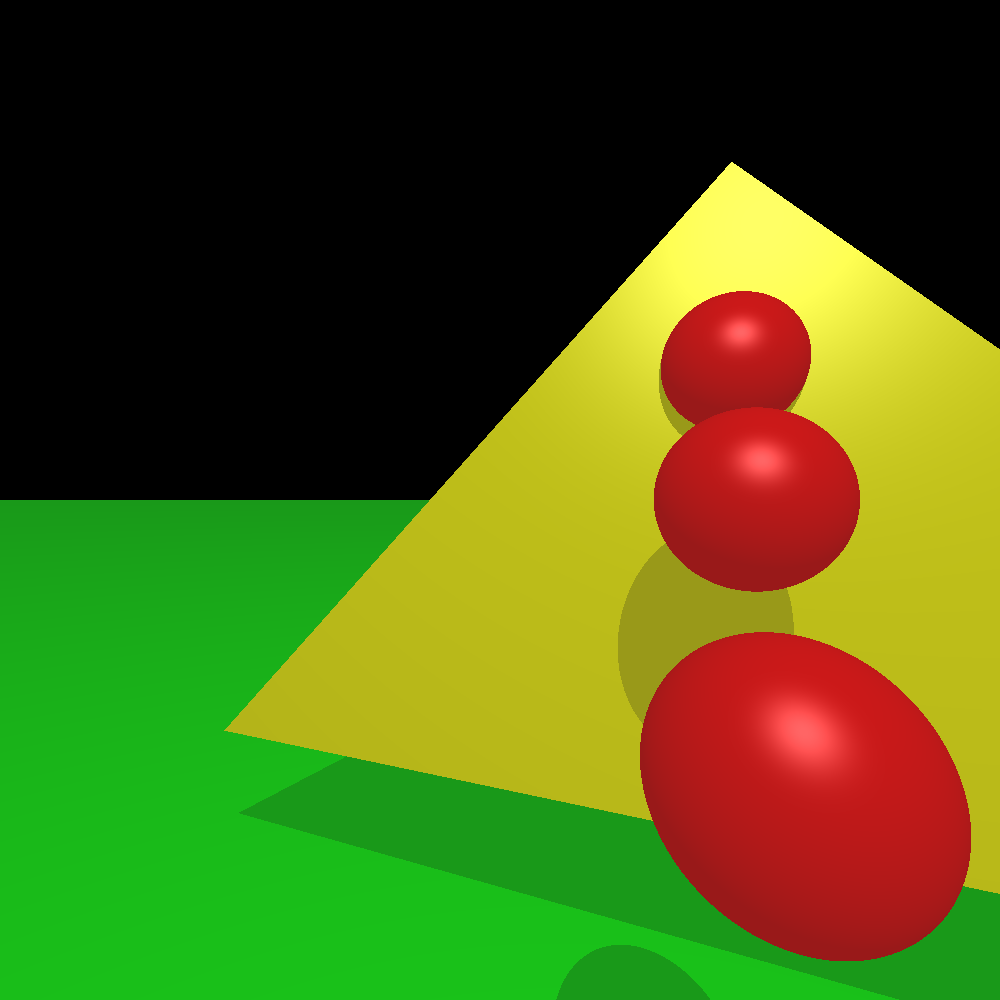
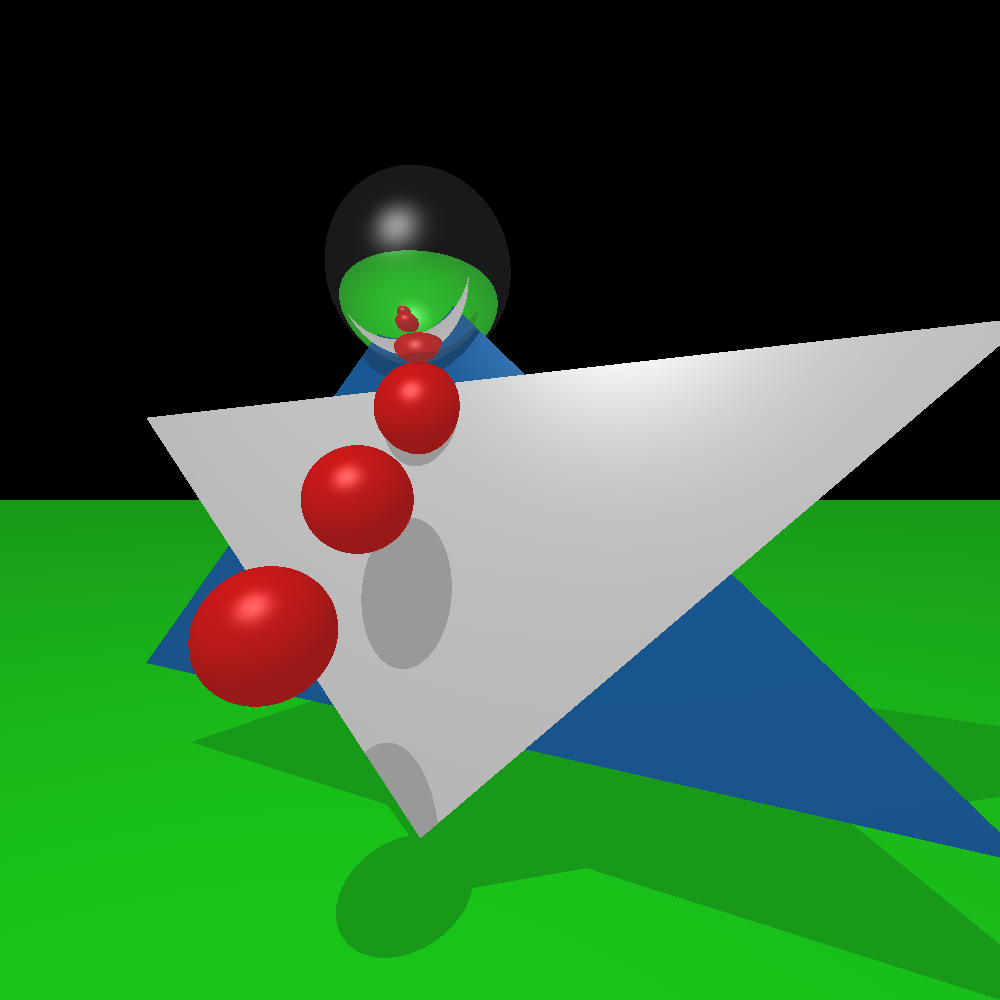
raytracing reflections, limiting recursions

diff --git a/src/raytracing/raytracer.rs b/src/raytracing/raytracer.rs
@@ -1,8 +1,11 @@
 use crate::exercise1::Scene;
 use crate::raytracing::transform::matrix;
-use crate::raytracing::{Ray, Intersect, Light, Hitpoint};
-use crate::raytracing::color::ColorRgb;
+use crate::raytracing::{Ray, Intersect, Light, Hitpoint, MaterialType};
+use crate::raytracing::color::{ColorRgb, Color, self};
 use num_traits::{Zero, zero};
+
+const MAX_RAY_RECURSION_DEPTH: usize = 10;
+const REFLECTION_DIM_FACTOR: f32 = 0.8;
 
 pub struct Raytracer<'scene> {
     scene: &'scene Scene<'scene>,
@@ -19,7 +22,8 @@ pub trait Public {
 }
 
 trait Private {
-    fn shade(&self, ray: &Ray, hitpoint: &Hitpoint) -> Option<ColorRgb>;
+    fn raytrace_impl(&self, ray: &Ray, ray_recursion_depth: usize) -> Option<ColorRgb>;
+    fn shade(&self, ray: &Ray, hitpoint: &Hitpoint, ray_recursion_depth: usize) -> Option<ColorRgb>;
     fn radiance(&self, ray: &Ray, hitpoint: &Hitpoint, light: &Light, is_shadow: bool) -> ColorRgb;
     fn trace_shadow_ray(&self, world_pos: &glm::Vec3, light: &Light) -> bool;
     fn create_reflected_ray(to_viewer: &glm::Vec3, normal: &glm::Vec3) -> glm::Vec3;
@@ -35,8 +39,7 @@ impl Public for Raytracer<'_> {
     }
 
     fn raytrace(&self, ray: &Ray) -> Option<ColorRgb> {
-        let hitpoint = self.scene.intersect(ray)?;
-        self.shade(ray, &hitpoint)
+        self.raytrace_impl(ray, 0)
     }
 
     fn depth_map(&self, ray: &Ray) -> Option<ColorRgb> {
@@ -74,22 +77,42 @@ impl Public for Raytracer<'_> {
 }
 
 impl Private for Raytracer<'_> {
-    fn shade(&self, ray: &Ray, hitpoint: &Hitpoint) -> Option<ColorRgb> {
-        let mut color = None;
-
-        for light in &self.scene.lights {
-            let is_shadow = self.trace_shadow_ray(&hitpoint.position, light);
-            let radiance_color = self.radiance(ray, hitpoint, light, is_shadow);
-
-            match color {
-                Some(old_color) =>
-                    color = Some(old_color + radiance_color),
-                None =>
-                    color = Some(radiance_color)
-            }
+    fn raytrace_impl(&self, ray: &Ray, ray_recursion_depth: usize) -> Option<ColorRgb> {
+        if ray_recursion_depth < MAX_RAY_RECURSION_DEPTH {
+            let hitpoint = self.scene.intersect(ray)?;
+            self.shade(ray, &hitpoint, ray_recursion_depth)
+        } else {
+            None
         }
+    }
 
-        color
+    fn shade(&self, ray: &Ray, hitpoint: &Hitpoint, ray_recursion_depth: usize) -> Option<ColorRgb> {
+        let shade_phong = || {
+            let mut current_color = None;
+            for light in &self.scene.lights {
+                let is_shadow = self.trace_shadow_ray(&hitpoint.position, light);
+                let radiance_color = self.radiance(ray, hitpoint, light, is_shadow);
+
+                current_color = color::add_option(current_color, Some(radiance_color));
+            }
+            current_color
+        };
+
+        let shade_reflect = || {
+            // TODO: why can't we do ```-&ray.direction``` here?
+            let direction = Self::create_reflected_ray(&-ray.direction, &hitpoint.hit_normal);
+            let reflected_ray = Ray { origin: hitpoint.position, direction: glm::normalize(direction), };
+
+            let reflection_color =
+                self.raytrace_impl(&reflected_ray, ray_recursion_depth + 1)
+                    .and_then(|color| Some(color * REFLECTION_DIM_FACTOR));
+            reflection_color
+        };
+
+        match &hitpoint.material.material_type {
+            &MaterialType::Phong => shade_phong(),
+            &MaterialType::ReflectAndPhong => color::add_option(shade_reflect(), shade_phong())
+        }
     }
 
     fn radiance(&self, ray: &Ray, hitpoint: &Hitpoint, light: &Light, is_shadow: bool) -> ColorRgb {

diff --git a/src/main.rs b/src/main.rs
@@ -58,9 +58,9 @@ fn test_lights() -> Vec<Light> {
 
 fn test_camera(width: usize, height: usize) -> Camera {
     Camera {
-        position: glm::vec3(0.0, 0.0, -1.0),
+        position: glm::vec3(3.0, 0.0, 1.0),
         orientation: glm::vec3(0.0f32.to_radians(),
-                               20.0f32.to_radians(),
+                               25.0f32.to_radians(),
                                0.0f32.to_radians()),
         pixel_width: width,
         pixel_height: height,
@@ -99,6 +99,24 @@ fn test_materials() -> Vec<Material> {
             material_type: MaterialType::Phong,
         },
         Material {
+            name: String::from("some_shiny_white"),
+            emissive: glm::vec3(0.1, 0.1, 0.1),
+            ambient: glm::vec3(0.4, 0.4, 0.4),
+            diffuse: glm::vec3(0.4, 0.4, 0.4),
+            specular: glm::vec3(0.6, 0.6, 0.6),
+            shininess: 10.0,
+            material_type: MaterialType::Phong,
+        },
+        Material {
+            name: String::from("some_shiny_blue"),
+            emissive: glm::vec3(0.0, 0.037, 0.072),
+            ambient: glm::vec3(0.0, 0.148, 0.288),
+            diffuse: glm::vec3(0.0, 0.148, 0.288),
+            specular: glm::vec3(0.6, 0.6, 0.6),
+            shininess: 10.0,
+            material_type: MaterialType::Phong,
+        },
+        Material {
             name: String::from("reflective"),
             emissive: glm::vec3(0.0, 0.0, 0.0),
             ambient: glm::vec3(0.0, 0.0, 0.0),
@@ -113,13 +131,21 @@ fn test_materials() -> Vec<Material> {
 fn test_triangles(materials: &[Material]) -> Vec<Triangle> {
     vec![
         Triangle::new(
+            glm::vec3(-5.0, 1.25, -5.0),
+            glm::vec3(5.0, 1.25, -5.0),
+            glm::vec3(0.0, -3.75, -5.0),
+            materials.iter().find(|&material| {
+                material.name == "some_shiny_white"
+            }).unwrap()
+        ),
+        Triangle::new(
             glm::vec3(-5.0, -2.5, -5.0),
             glm::vec3(5.0, -2.5, -5.0),
             glm::vec3(0.0, 2.5, -5.0),
             materials.iter().find(|&material| {
-                material.name == "some_shiny_yellow"
+                material.name == "some_shiny_blue"
             }).unwrap()
-        )
+        ),
     ]
 }
 
@@ -156,6 +182,13 @@ fn test_spheres(materials: &[Material]) -> Vec<Sphere> {
             radius: 0.5,
             material: materials.iter().find(|&material| {
                 material.name == "some_shiny_red"
+            }).unwrap()
+        },
+        Sphere {
+            center: glm::vec3(0.0, 2.5, -5.0),
+            radius: 1.0,
+            material: materials.iter().find(|&material| {
+                material.name == "reflective"
             }).unwrap()
         }
     ]
